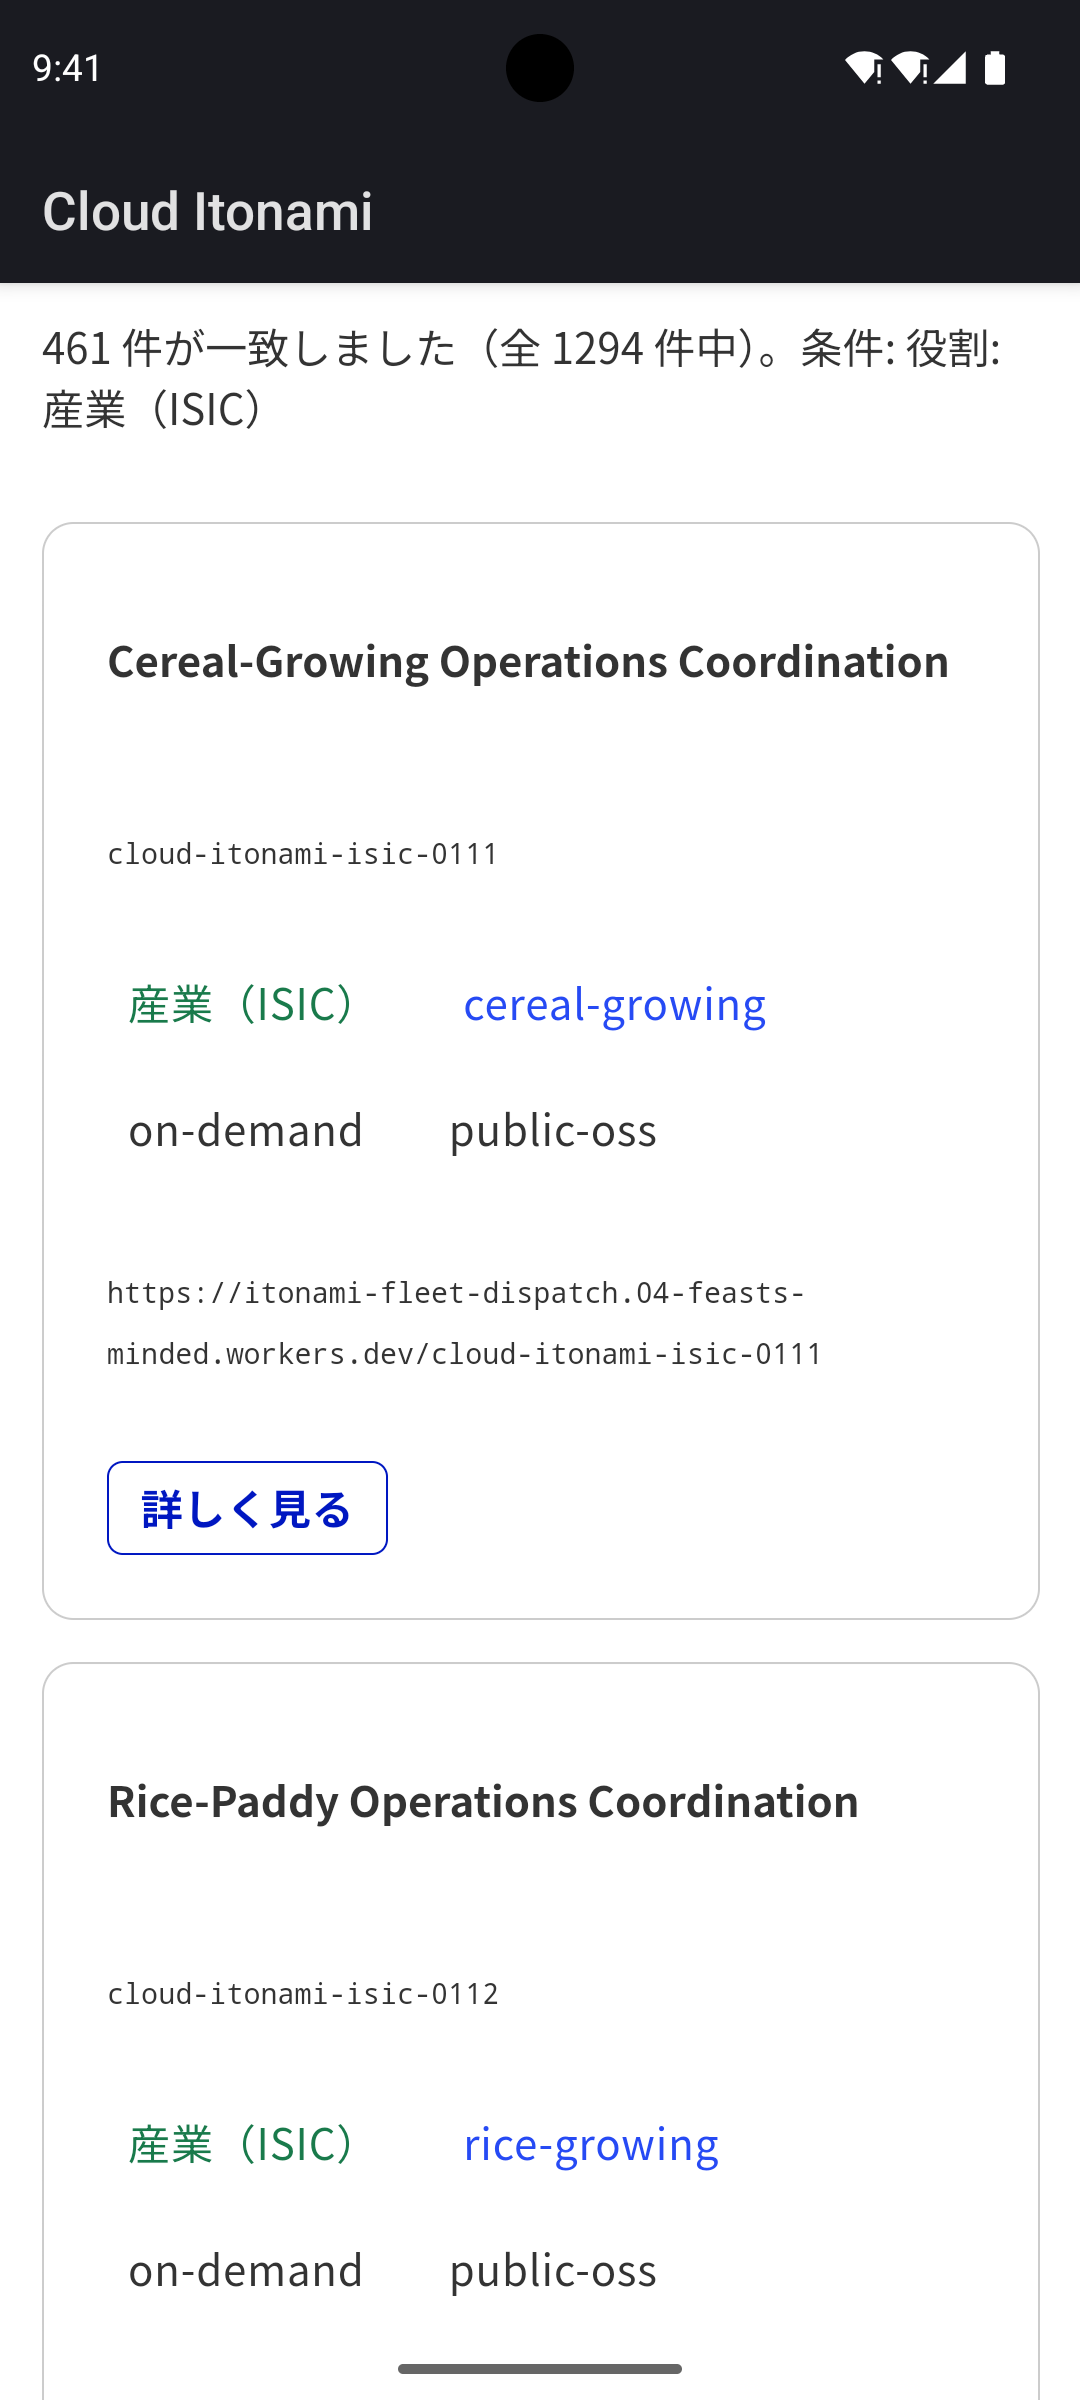
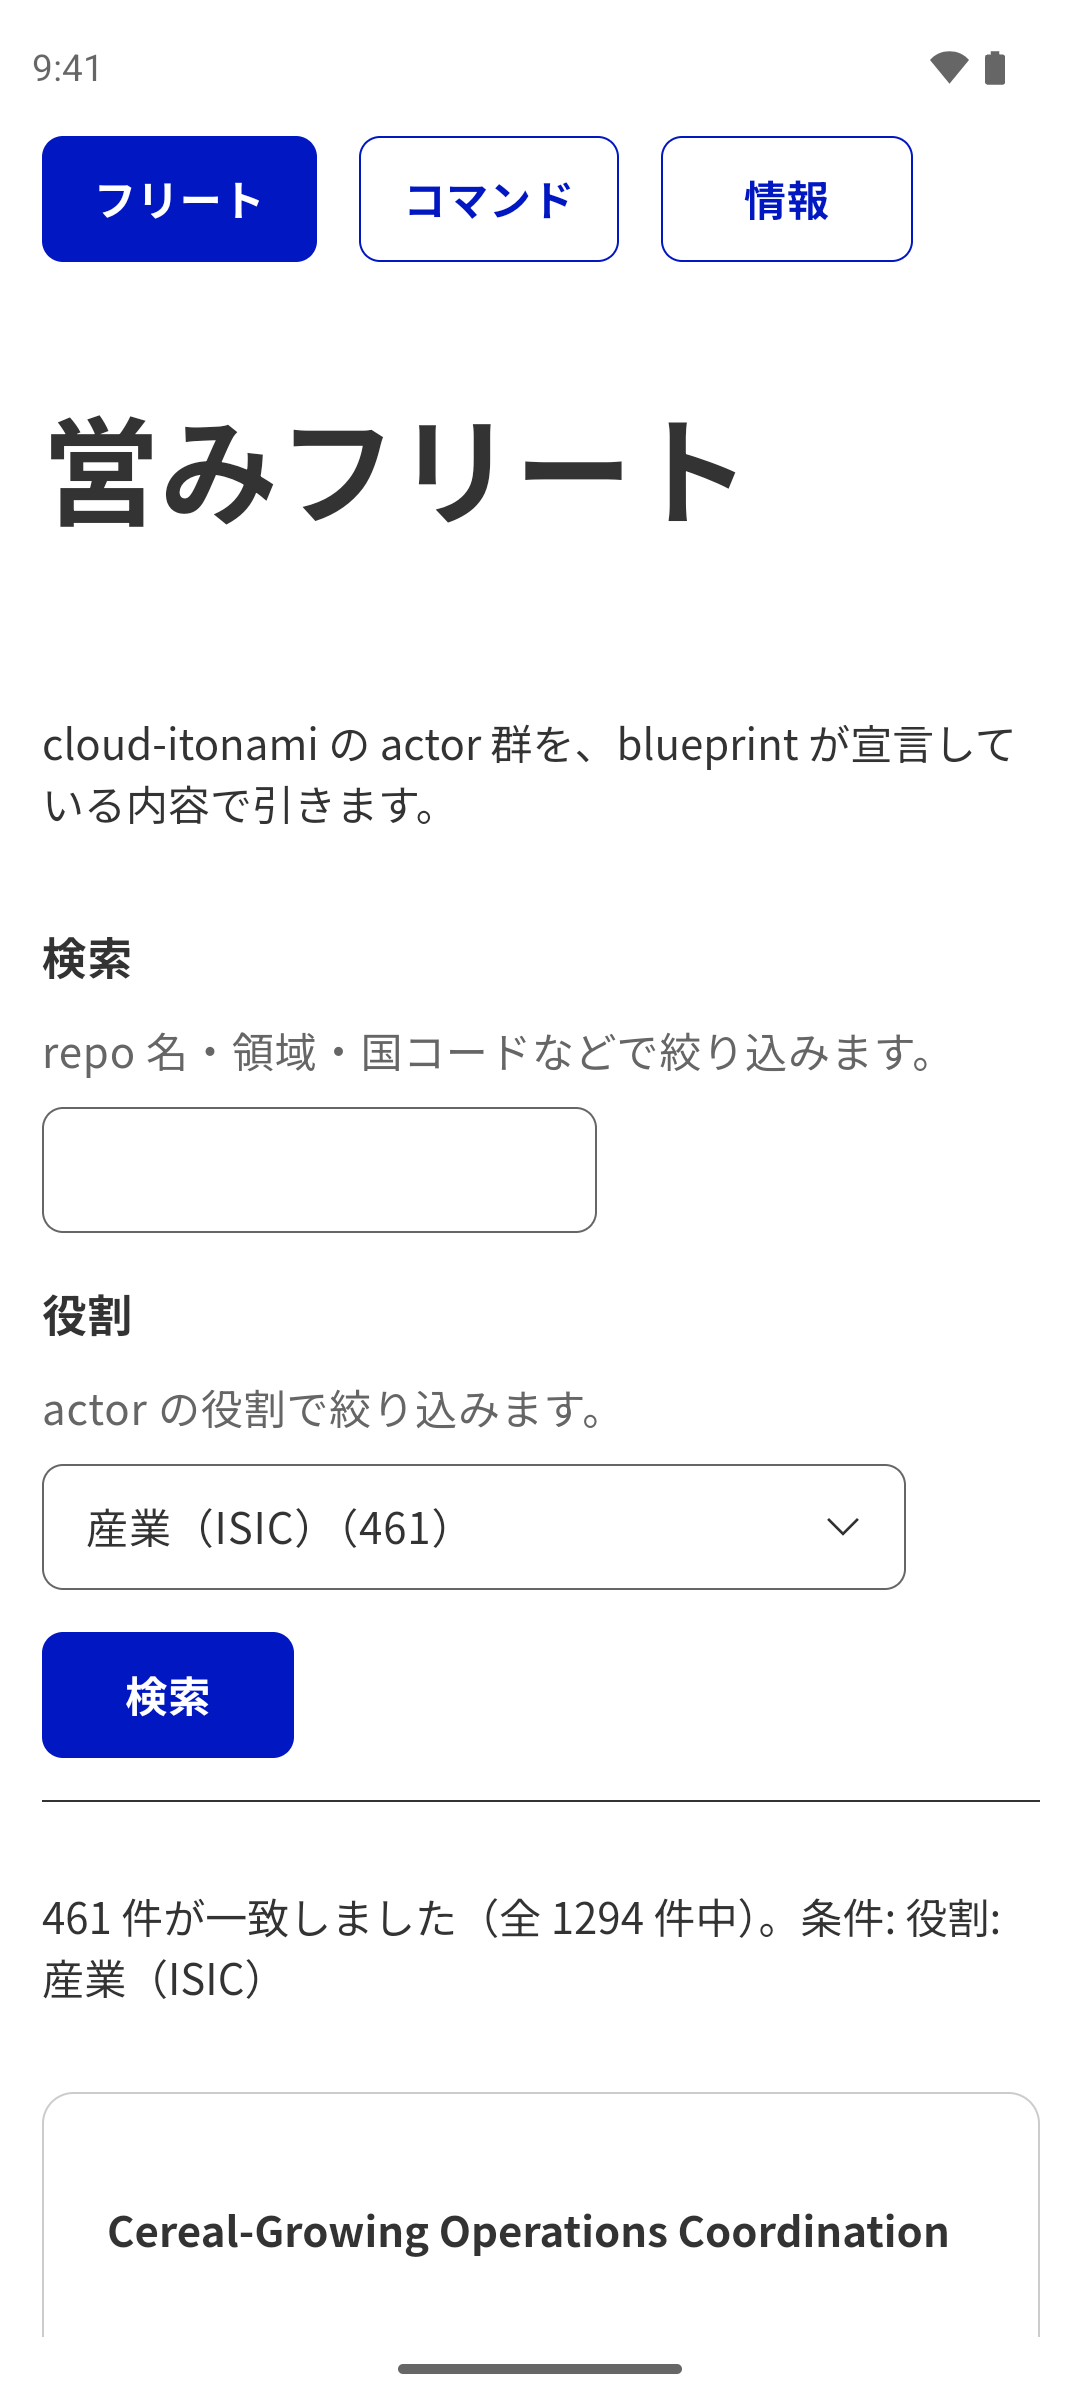
mobile: adopt kotoba-shell store-readiness keys; Android Back; retake screenshots
Declare :ios/icon, :android/icon, :android/adaptive-icon (store art),
:ios/device-family [:iphone], portrait, :ios/build-number 1,
non-exempt encryption false, no required-reason API types, allowBackup
and cleartext off (kotoba-lang/shell PR #36). Handle kotobaShell:back so
Android Back goes detail -> list -> fleet before leaving the app.
Retake iOS 6.9" and Android 1080x2400 screenshots on the new scaffold
(no ActionBar, no notification prompt, launcher icon present).

diff --git a/mobile/README.md b/mobile/README.md
@@ -199,25 +199,33 @@ Without an account the app is a usable read-only directory: search, a role
 menu built from `/api/fleet/facets`, a detail screen per actor, and an 情報
 pane with support and privacy addresses (Guideline 4.2).
 
-**Blockers that live in kotoba-shell, not here** (generated projects are not
-hand-edited):
+**Depends on kotoba-lang/shell PR #36** (branch `claude/mobile-store-blockers`,
+"Fix App Store / Google Play blockers in scaffolded iOS and Android apps").
+`app.mobile.kotoba.edn` uses the manifest keys that PR adds — `:ios/icon`,
+`:android/icon`, `:android/adaptive-icon`, `:ios/device-family [:iphone]`,
+`:ios/orientations [:portrait]`, `:ios/build-number`,
+`:ios/uses-non-exempt-encryption? false`, `:ios/privacy-accessed-api-types []`,
+`:android/allow-backup? false`, `:android/cleartext-traffic? false` — and an
+older shell ignores them, giving back every blocker below. Until it merges,
+scaffold with that branch (`SHELL_ROOT=<checkout of claude/mobile-store-blockers>`).
 
-- no app icon on either platform: `:app/icon` is read only by `app run`
-  (macOS window, iOS run helper); `app scaffold` writes no `Assets.xcassets`
-  (yet sets `ASSETCATALOG_COMPILER_APPICON_NAME = AppIcon`) and no
-  `android:icon` / mipmap resources.
-- iOS declares iPhone and iPad (`TARGETED_DEVICE_FAMILY = "1,2"`) with
-  portrait only: App Store validation rejects iPad multitasking without all
-  orientations or `UIRequiresFullScreen`, and iPad screenshots become
-  required. `CFBundleVersion` is fixed at `"1"`;
-  `ITSAppUsesNonExemptEncryption` is not set.
-- Android `targetSdk 35` makes the window edge-to-edge, and `MainActivity`
-  applies no insets: the WebView is full-screen under the status bar AND the
-  ActionBar. The WebView reports `safe-area-inset-top` 52px (status bar only),
-  so the ActionBar covers the pane buttons at the top of the page (measured
-  on API 35). The Android screenshots were scrolled past that strip.
-- Android asks for `POST_NOTIFICATIONS` on first launch although the policy
-  grants no notification command, and sets `usesCleartextTraffic="true"`.
+What it fixed, measured 2026-10-14 on an iPhone 17 Pro Max simulator (iOS
+26.5) and a Pixel 7 API 35 emulator (`google_apis`), `app scaffold` + `app
+build --execute` on both:
+
+- the い icon on the iOS Home screen and in the Android launcher (adaptive);
+- iOS `UIDeviceFamily [1]`, portrait, `CFBundleVersion 1`,
+  `ITSAppUsesNonExemptEncryption NO`, `PrivacyInfo.xcprivacy` in the bundle —
+  so no iPad screenshots are required;
+- Android: no ActionBar, the WebView sits between the status and gesture bars
+  (the screenshots are no longer scrolled past a hidden strip), no
+  notification prompt and no `POST_NOTIFICATIONS` at all (the policy grants
+  no `notify/show`), `usesCleartextTraffic` false, `allowBackup` false.
+
+**Android Back.** Panes and the detail screen are state, not URLs, so there
+is no WebView history for the shell's Back to walk. `app.cljk` handles the
+shell's cancelable `kotobaShell:back`: detail → list, コマンド / 情報 →
+フリート, and only on the fleet list does Back leave the app (measured).
 
 ## Verify
 
